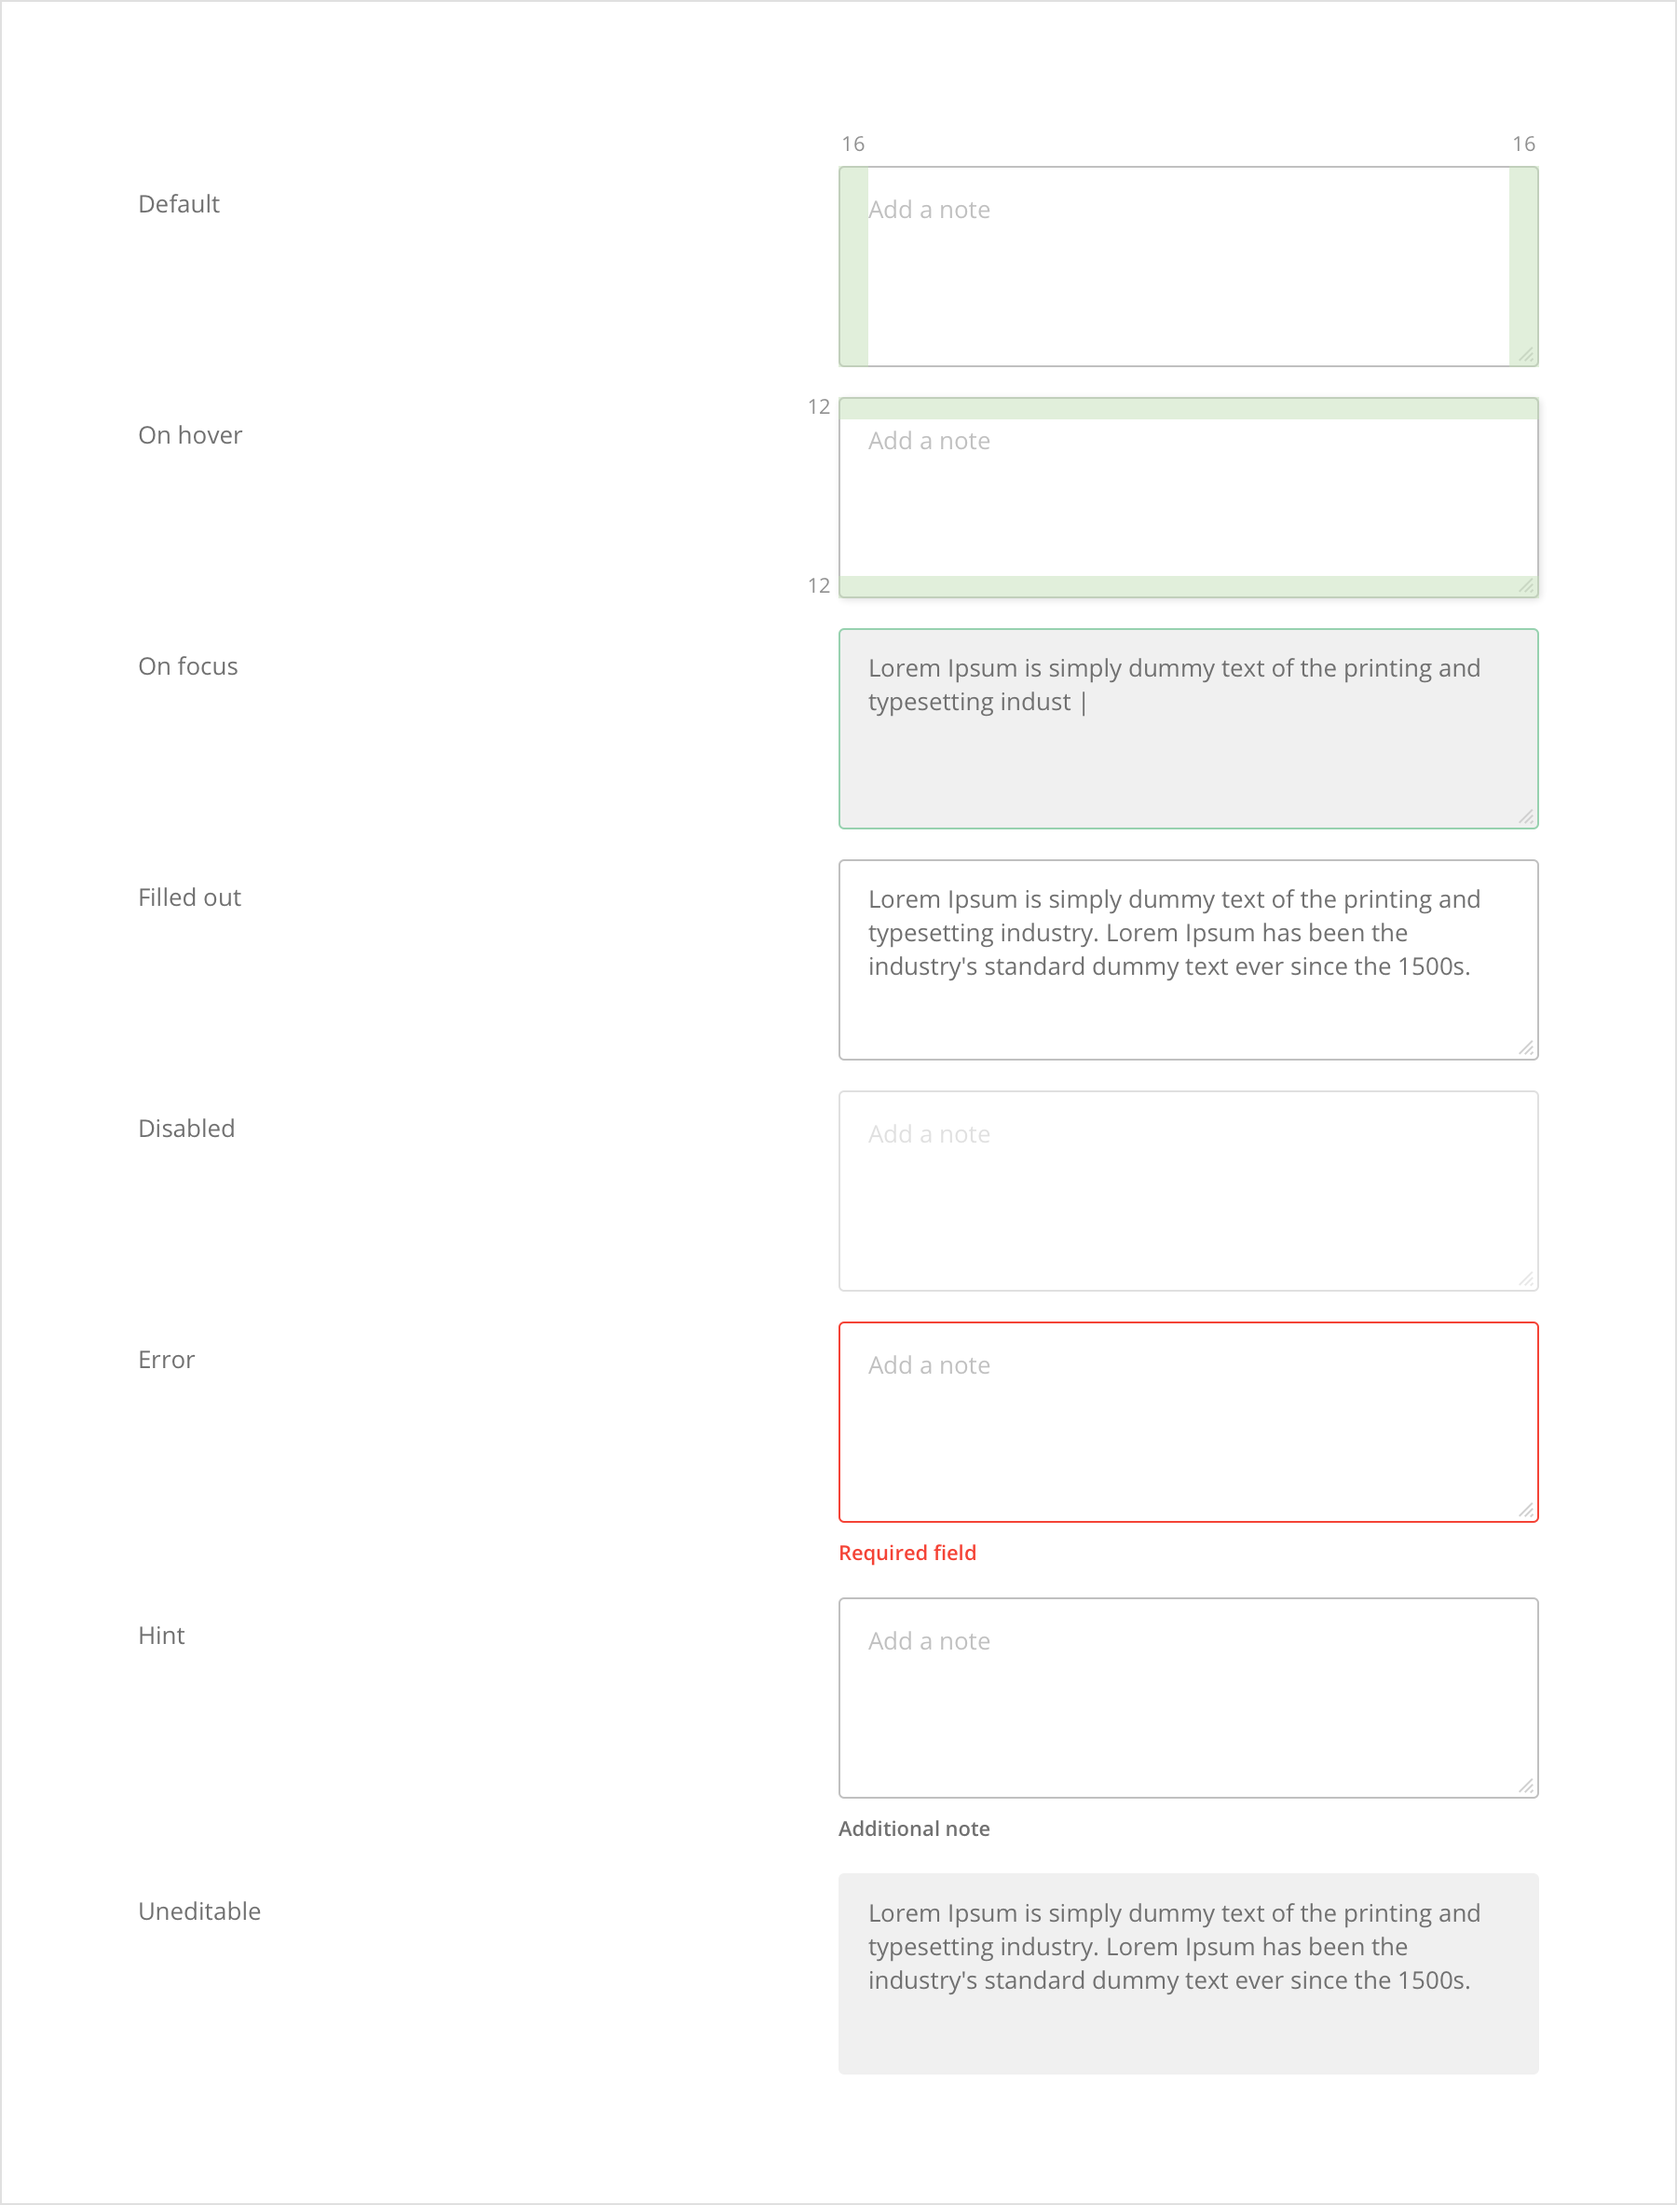
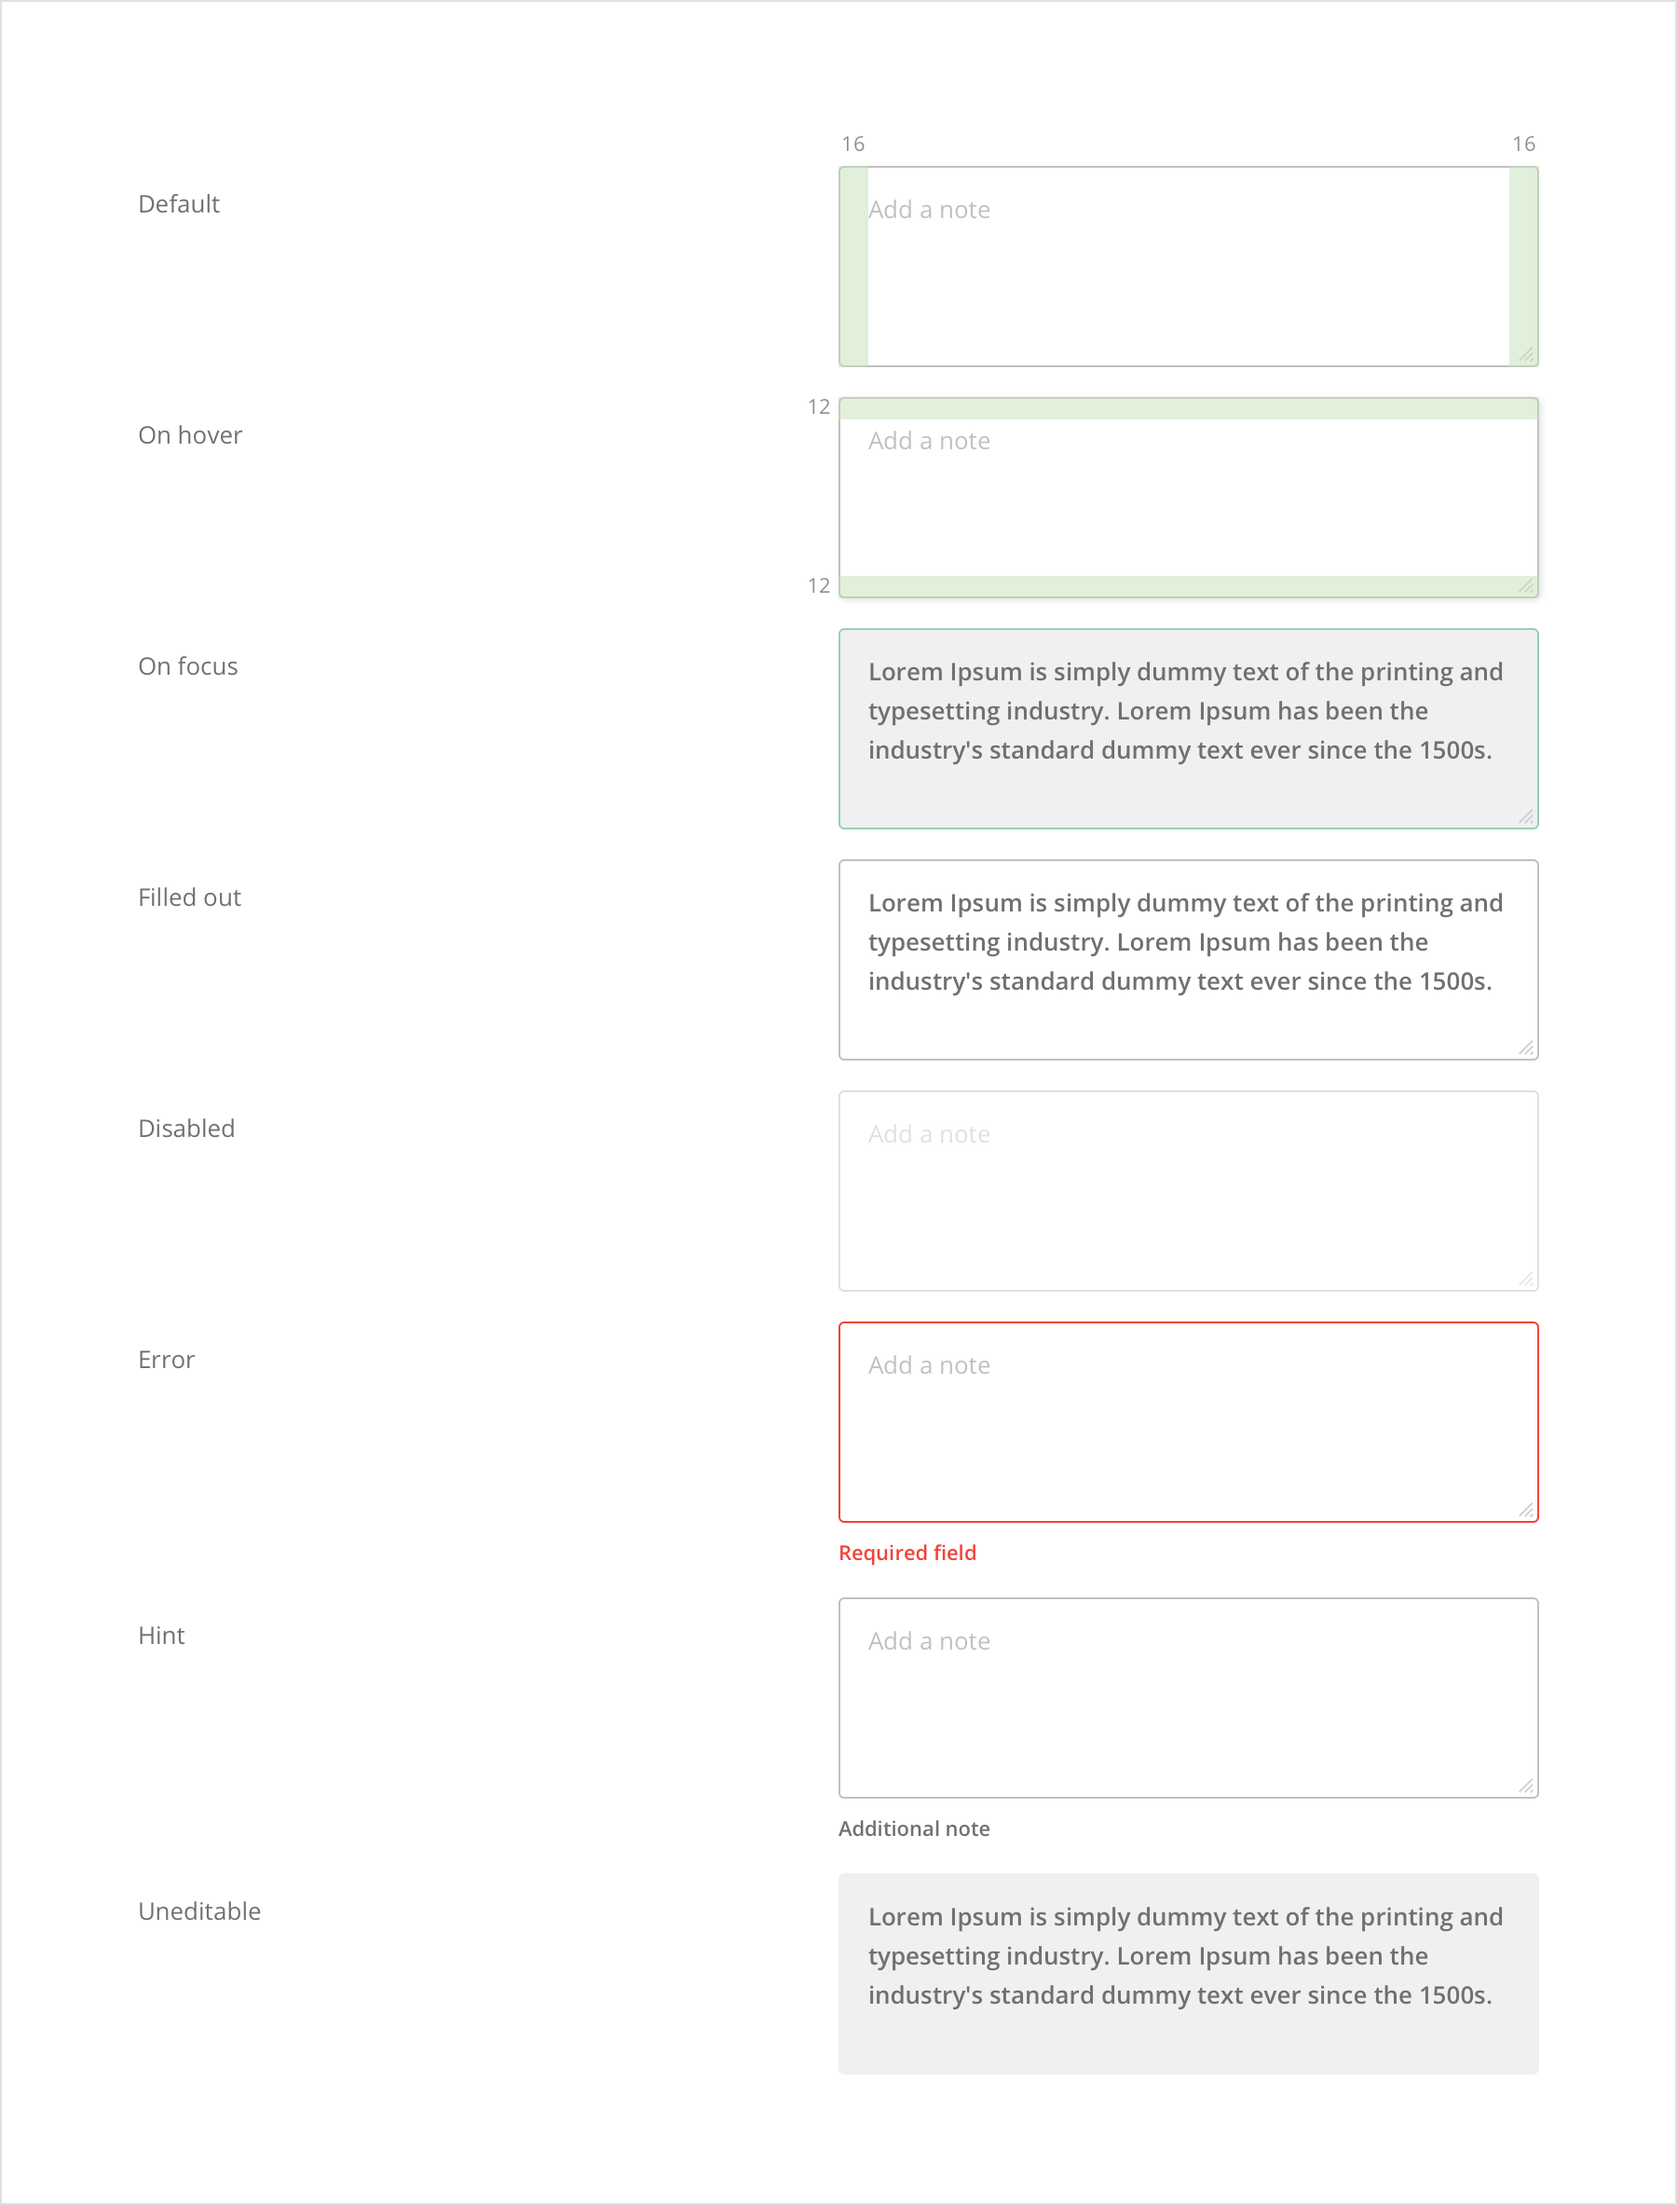
Updates atoms/input-types.md
Auto commit by GitBook Editor

Changed region(s): [[0.4978, 0.8639, 0.9022, 0.9256], [0.4978, 0.4011, 0.9022, 0.4628], [0.5289, 0.2777, 0.9022, 0.3394]]

diff --git a/atoms/input-types.md b/atoms/input-types.md
@@ -210,11 +210,10 @@ Used when at least a sentence of text is expected or necessary to be entered.
 /* Default */
 min-height: 108px;
 line-height: 21px;
-padding: 12px 0 12px 0;
+padding: 12px 16px 12px 16px;
 color: $S500;
 
 /* On focus */
-font-weight: Regular;
 color: $B200;
 
 /* Filled out */
